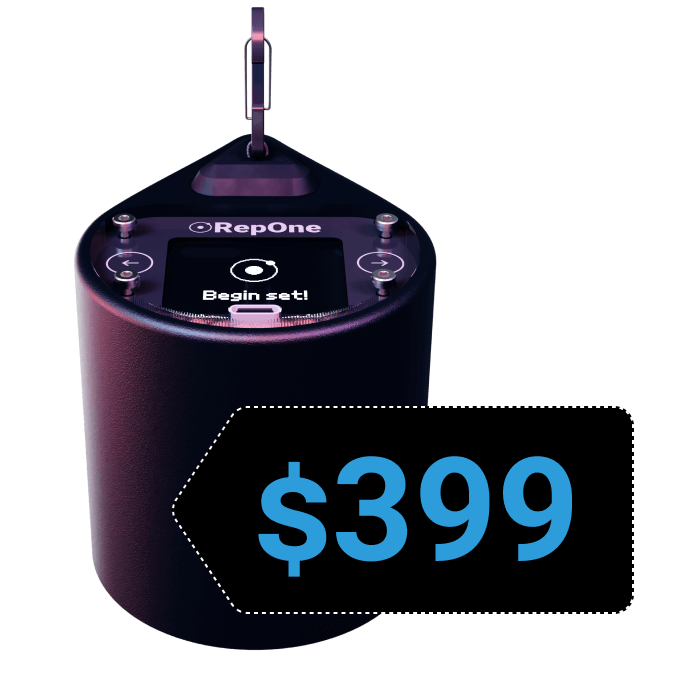
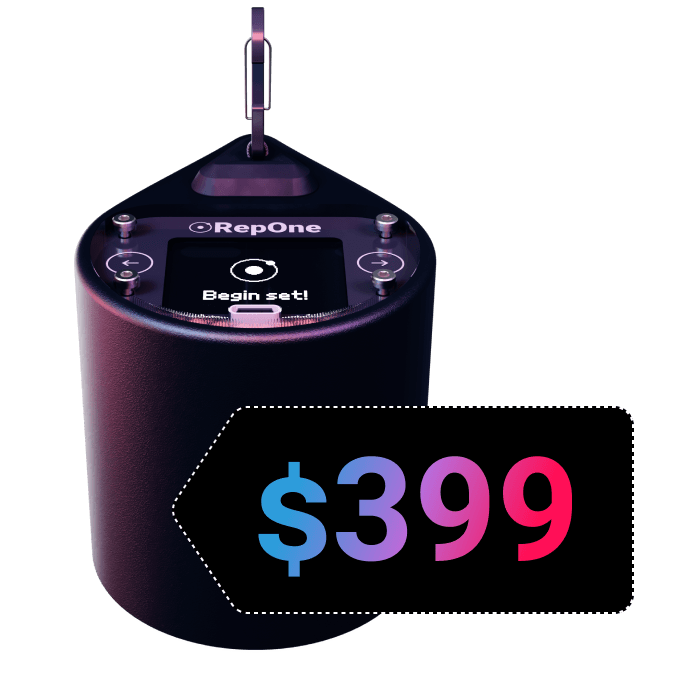
Updated some css and device pricing image

Changed region(s): [[0.42, 0.63, 0.84, 0.84], [0.45, 0.69, 0.48, 0.72]]

diff --git a/css/main.css b/css/main.css
@@ -20,7 +20,7 @@ h2 {
   font-size: 2rem;
   line-height: 3.2rem;
   font-weight: 500;
-  max-width: 1024px;
+  max-width: 900px;
   margin-left: auto;
   margin-right: auto;
 }
